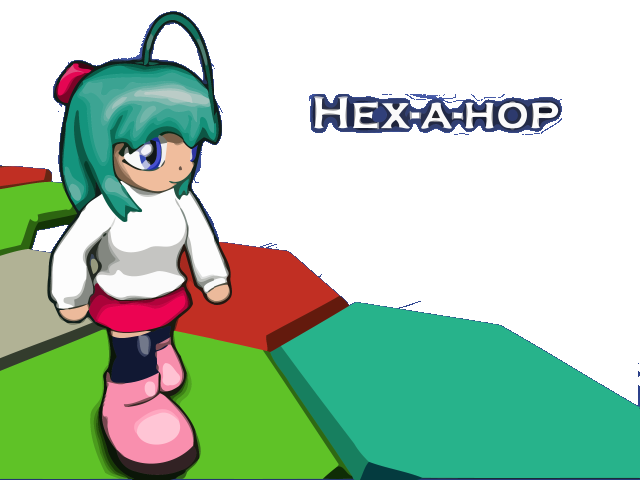
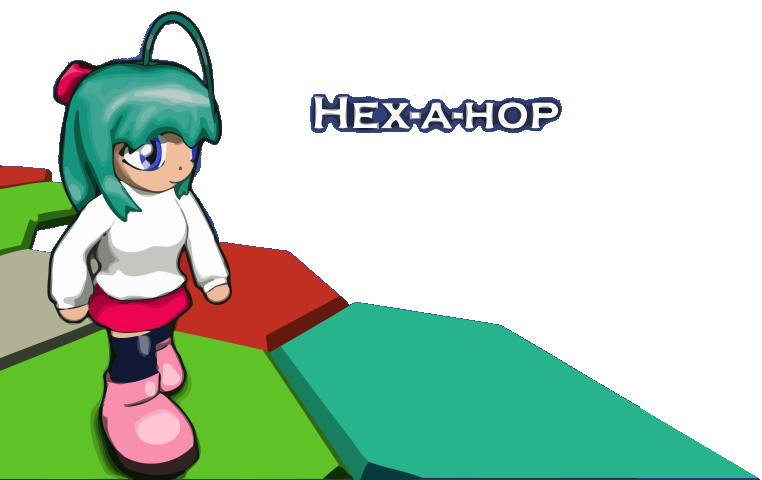
Modified scaling for android

Changed region(s): [[0.0, 0.0, 1.0, 1.0], [0.4062, 0.1875, 0.875, 0.2812]]

diff --git a/core/src/main/java/com/github/jamescarter/hexahop/core/level/Level.java b/core/src/main/java/com/github/jamescarter/hexahop/core/level/Level.java
@@ -6,6 +6,7 @@ import static playn.core.PlayN.graphics;
 import java.util.ArrayList;
 import java.util.List;
 
+import com.github.jamescarter.hexahop.core.HexAHop;
 import com.github.jamescarter.hexahop.core.callback.MapLoadCallback;
 import com.github.jamescarter.hexahop.core.grid.GridLoader;
 import com.github.jamescarter.hexahop.core.grid.LevelTileGrid;
@@ -58,9 +59,8 @@ public class Level extends GridLoader {
 
 		getGridLayer().add(player);
 
-		// Center grid layer
 		getGridLayer().setTranslation(
-			((640 - (getTileGrid().cols() * 46)) / 2) - 10,
+			((HexAHop.gameWidth - (getTileGrid().cols() * 46)) / 2) - 10,
 			((480 - (getTileGrid().rows() * 36)) / 2) - 36
 		);
 

diff --git a/core/src/main/java/com/github/jamescarter/hexahop/core/HexAHop.java b/core/src/main/java/com/github/jamescarter/hexahop/core/HexAHop.java
@@ -3,8 +3,27 @@ package com.github.jamescarter.hexahop.core;
 import com.github.jamescarter.hexahop.core.screen.TitleScreen;
 
 import playn.core.Game;
+import playn.core.PlayN;
 
 public class HexAHop implements Game {
+	public static float gameWidth;
+
+	public HexAHop() {
+		this(false);
+	}
+
+	public HexAHop(boolean scale) {
+		if (scale) {
+			float scaleY = (float) PlayN.graphics().screenHeight() / 480;
+
+			PlayN.graphics().rootLayer().setScale(scaleY, scaleY);
+
+			gameWidth = PlayN.graphics().screenWidth() / PlayN.graphics().rootLayer().scaleY();
+		} else {
+			gameWidth = 640;
+		}
+	}
+
 	@Override
 	public void init() {
 		new TitleScreen().load();

diff --git a/core/src/main/java/com/github/jamescarter/hexahop/core/screen/MapScreen.java b/core/src/main/java/com/github/jamescarter/hexahop/core/screen/MapScreen.java
@@ -22,7 +22,7 @@ import com.github.jamescarter.hexahop.core.tile.MapStatusTile;
 import com.github.jamescarter.hexahop.core.tile.Tile;
 
 public class MapScreen extends GridLoader {
-	private static final ImageLayer bgLayer = graphics().createImageLayer(assets().getImage("images/map_top.png"));
+	private static final ImageLayer bgLayer = graphics().createImageLayer(assets().getImage("images/map.png"));
 	private MapTileGrid mapTileGrid = new MapTileGrid();
 
 	public MapScreen(String mapJsonString) {

diff --git a/android/src/main/java/com/github/jamescarter/hexahop/android/HexAHopActivity.java b/android/src/main/java/com/github/jamescarter/hexahop/android/HexAHopActivity.java
@@ -6,10 +6,10 @@ import playn.core.PlayN;
 import com.github.jamescarter.hexahop.core.HexAHop;
 
 public class HexAHopActivity extends GameActivity {
+	@Override
+	public void main() {
+		platform().assets().setPathPrefix("com/github/jamescarter/hexahop/resources");
 
-  @Override
-  public void main(){
-    platform().assets().setPathPrefix("com/github/jamescarter/hexahop/resources");
-    PlayN.run(new HexAHop());
-  }
+		PlayN.run(new HexAHop(true));
+	}
 }

diff --git a/ios/Main.cs b/ios/Main.cs
@@ -14,7 +14,7 @@ namespace com.github.jamescarter.hexahop
       app.SetStatusBarHidden(true, true);
       var pf = IOSPlatform.register(app, IOSPlatform.SupportedOrients.PORTRAITS);
       pf.assets().setPathPrefix("assets");
-      PlayN.run(new HexAHop());
+      PlayN.run(new HexAHop(true));
       return true;
     }
   }
